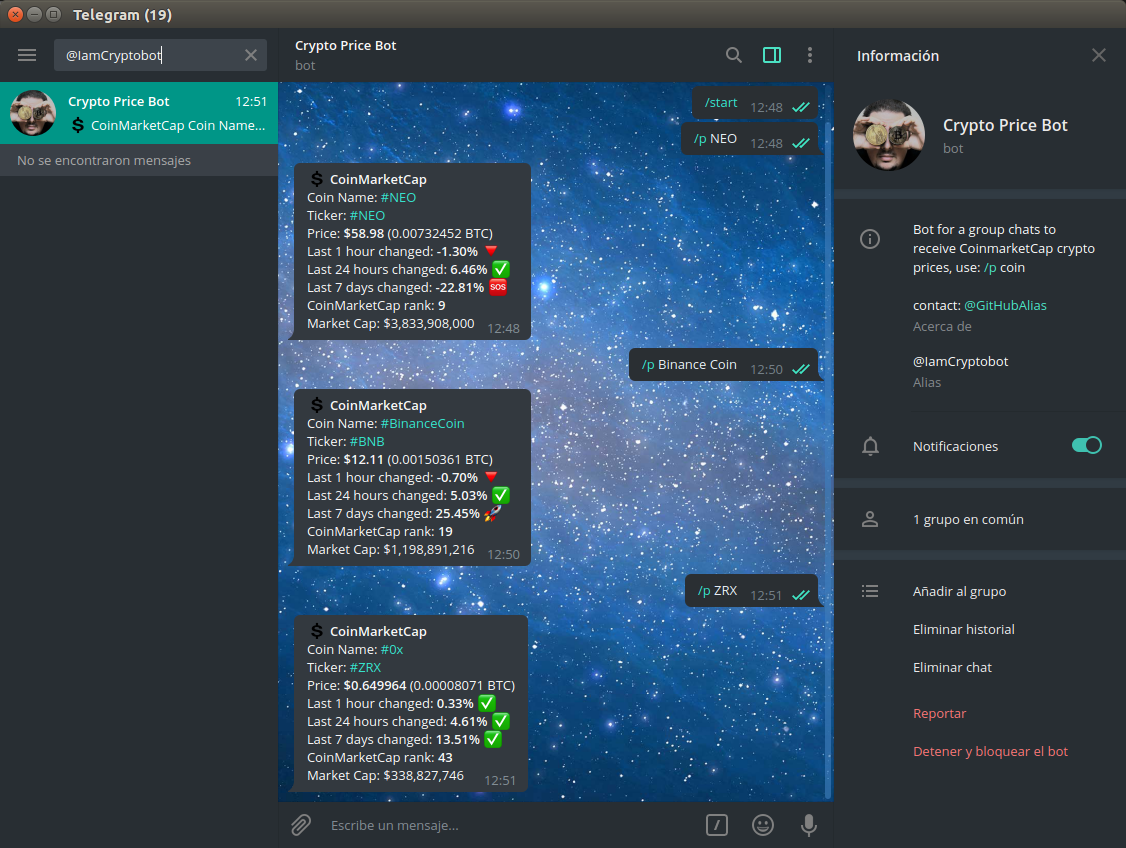
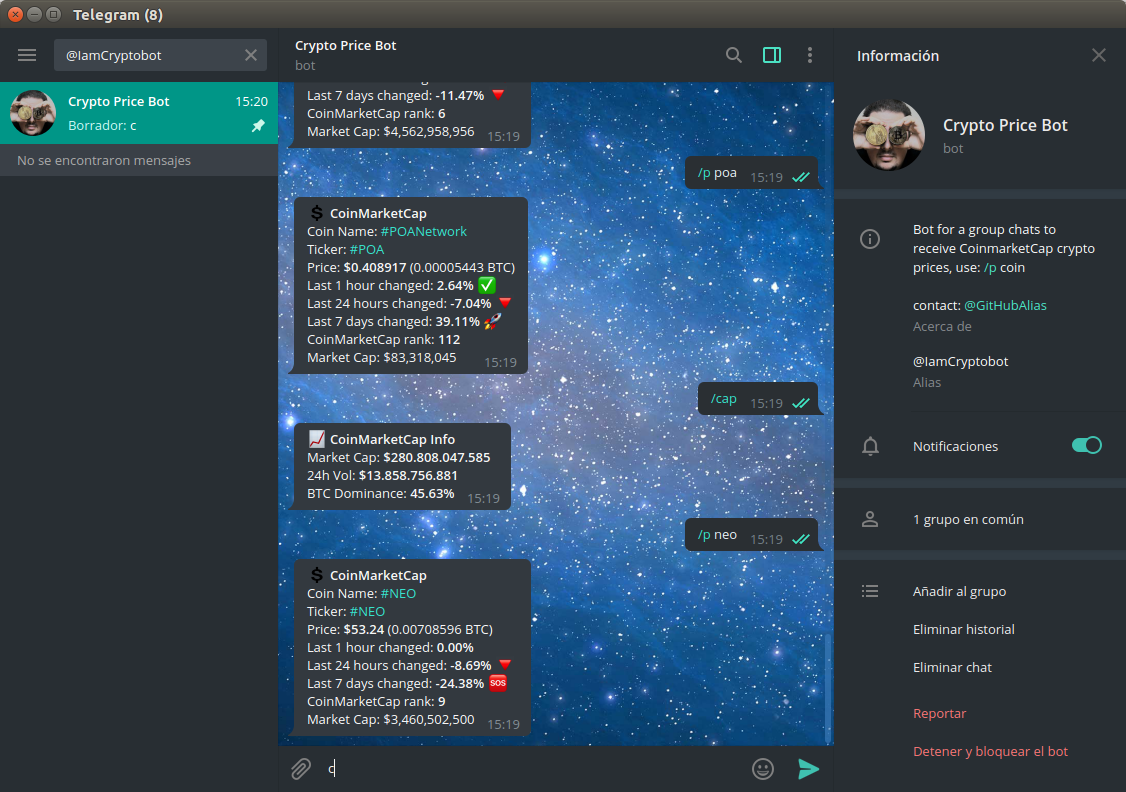
README: /cap added

diff --git a/README.md b/README.md
@@ -14,13 +14,15 @@ API of [CoinMarketCap](https://coinmarketcap.com/api/ "CoinMarketCap") is used
 
 #### Use:
 
-For recive actual price of a crypto coin send a command "/p coin", you can send a coin name and also a coin ticker, e.g.:
+To recive actual price of a crypto coin send a command "/p coin", you can send a coin name and also a coin ticker, you can get global market cap info with a command "/cap" e.g.:
 
-> VeChain
+> /p VeChain
 > 
-> OMG
+> /p OMG
 > 
-> DigixDAO
+> /p neo
+>
+> /cap
 
 ---
 
